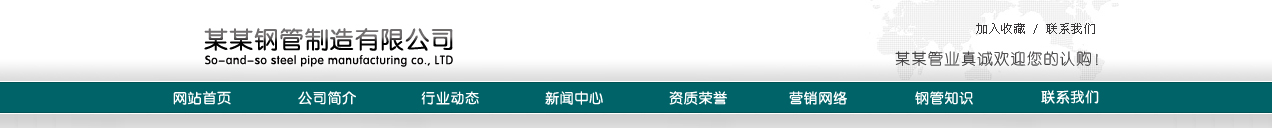
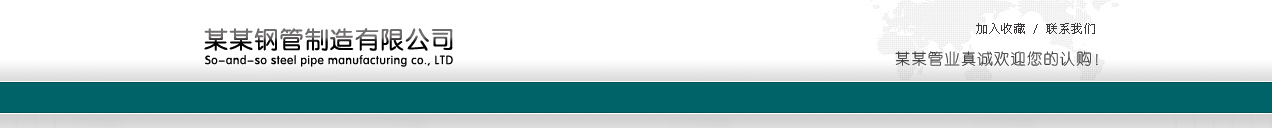
talk

diff --git a/css1/new change/nc.html b/css1/new change/nc.html
@@ -9,12 +9,28 @@
 
 </head>
 <body>
-	 <div id="header">1</div>
-	 <div id="picture">2</div>
+	 <div id="header">
+ 		<ul id="pipe1">
+		<li class="line"><a href="###1">网站首页</a></li>
+		<li class="line"><a href="###2">公司简介</a></li>
+		<li class="line"><a href="http://www.baidu.com">行业动态</a></li>
+		<li class="line"><a href="###4">新闻中心</a></li>
+		<li class="line"><a href="###5">资质荣誉</a></li>
+		<li class="line"><a href="###9">营销网络</a></li>
+		<li class="line"><a href="###7"> 钢管知识</a></li>
+		<li class="line"><a href="###8"> 联系我们</a></li>
+	</ul>
+	 </div>
+	 <div id="picture"></div>
 
-	 <div id="six">3</div>
+	 <div id="six"></div>
 		
-	 <div id="introduce">4</div>
+	 <div id="introduce">
+			<div id="three">
+ 		<img src="5.jpg">
+ 		<span class="build"><a href="###9">聊城易商网络科技有限公司</a></span>，成立于 2006年是一家集公司专业生产高速公路护栏板、立柱、防阻块、标志杆及相应的配套材料，公司有护栏板热浸锌生产线4条，能加工1.2米~5米长的产品；其中加工护栏板二条，立柱管1条，小件1条，喷塑生产线三条，能浸塑1米~4.5米长的产品能加工1.2米~5米长的产品；其中加工护栏板二条，立柱管1条，小件1条，喷塑生产线三条，能浸塑1米~4.5米长的产品；能加工1.2米~5米长的产品；其中加工护栏板二条，立柱管1条，小件1条，喷塑生产线三条，能浸塑1米~4.5米长的产品高速公路护栏板、立柱及配件成型生产线含纵剪机5台、二波护栏板成型线2条、三波护栏板成型线一条、割管设备3台、焊管设备1套。使网络成为知名网络....【<span class="build"><a href="http://www.baidu.com">更多详情</a></span>】
+ 	</div>
+	 </div>
 	 <div id="news">5</div>
 	 <div id="contact">6</div>
 	 <div id="display">7</div>

diff --git a/css1/new change/nc.css b/css1/new change/nc.css
@@ -20,10 +20,30 @@ ul{
 	background:url(1.jpg) no-repeat;
 	position:absolute;
 }
+#pipe1{
+	padding:90px 0 0 160px;
+
+
+}
+.line {
+	width:130px;
+	height:19px;
+	float:left;
+	font-size:14px;
+
+}
+.line a {
+	width:63px;
+	height:19px;
+	display:block;
+	color:white;
+	text-decoration:none; 
+    font-family:方正大黑简体;
+	}	
 #picture{
 	width:1272px;
 	height:253px;
-	background:red;
+	background:url(2.jpg) no-repeat;
 	position:absolute;
 	top:128px;
 }
@@ -34,7 +54,7 @@ ul{
 	position:absolute;
 	top:381px;
 	left:147.5px;
-	background:yellow;
+	background:url(3.jpg) repeat-x;
 }
 		
 #introduce{
@@ -43,8 +63,29 @@ ul{
 	position:absolute;
 	top:453px;
 	left:147.5px;
-	background:green;
+	background:url(6.jpg) no-repeat top;
 }
+#three{
+	position:absolute;
+	top:60px;
+	width:400px;
+	height:570px;
+}
+#three img{
+
+	float:left;
+	width:120px;
+	height:120px;
+	top:210px;
+
+}
+.build a{
+	color:#ff546b;
+	width:350px;
+	height:430px;
+	text-decoration:none; 
+}
+
 #news{
 	width:303px;
 	height:258px;

diff --git a/css1/new/pipe.css b/css1/new/pipe.css
@@ -15,7 +15,6 @@ body{
 #header{
 	width:1024px;
 	height:150px;
-
 	position:absolute;
 	top:0px;
 	background:url(1.jpg) no-repeat;
